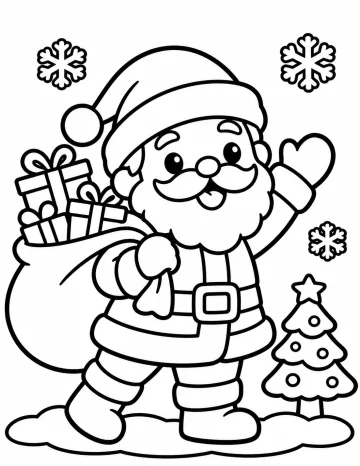
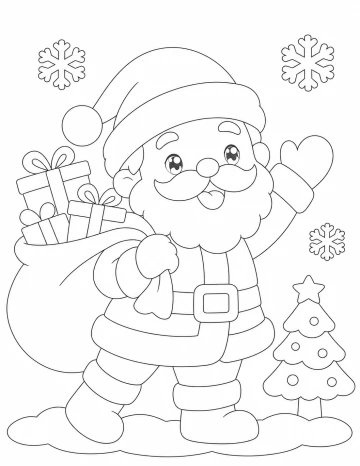
feat: add Christmas-themed coloring pages and update page selection logic

diff --git a/src/components/projects-home/PagePickerSheet.tsx b/src/components/projects-home/PagePickerSheet.tsx
@@ -1,7 +1,13 @@
 import { useMemo, useRef, useState, type ReactNode } from "react";
 import { Camera, Loader2, PenLine, X } from "lucide-react";
 import { toast } from "sonner";
-import { COLORING_PAGES, coloringPageThumbToSrc, type ColoringPage } from "@/lib/coloringPages";
+import {
+  COLORING_PAGES,
+  COLORING_THEMES,
+  coloringPageTheme,
+  coloringPageThumbToSrc,
+  type ColoringPage,
+} from "@/lib/coloringPages";
 import { openImagePicker } from "@/lib/nativeBridge";
 import type { CanvasImage } from "@/lib/projects";
 import { buildPhotoColoringPage } from "@/components/paint/paintUtils";
@@ -13,14 +19,6 @@ import {
   DialogDescription,
   DialogTitle,
 } from "@/components/ui/dialog";
-
-const CATEGORY_ORDER: ColoringPage["category"][] = ["Imported", "Cute", "Fantasy", "Play"];
-const CATEGORY_LABELS: Record<ColoringPage["category"], string> = {
-  Imported: "Picture pages",
-  Cute: "Cute friends",
-  Fantasy: "Fantasy",
-  Play: "Play time",
-};
 
 export type PagePick =
   | { kind: "page"; page: ColoringPage }
@@ -40,18 +38,14 @@ export function PagePickerSheet({
   onOpenChange: (open: boolean) => void;
   onPick: (pick: PagePick) => void;
 }) {
-  const sections = useMemo(() => {
-    const groups = new Map<ColoringPage["category"], ColoringPage[]>();
-    for (const page of COLORING_PAGES) {
-      const list = groups.get(page.category) ?? [];
-      list.push(page);
-      groups.set(page.category, list);
-    }
-    return [...groups.entries()].sort(
-      ([a], [b]) => CATEGORY_ORDER.indexOf(a) - CATEGORY_ORDER.indexOf(b),
-    );
-  }, []);
-  const showSectionTitles = sections.length > 1;
+  const sections = useMemo(
+    () =>
+      COLORING_THEMES.map((theme) => ({
+        ...theme,
+        pages: COLORING_PAGES.filter((page) => coloringPageTheme(page) === theme.id),
+      })).filter((section) => section.pages.length > 0),
+    [],
+  );
   const fileRef = useRef<HTMLInputElement>(null);
   const [converting, setConverting] = useState(false);
 
@@ -129,16 +123,26 @@ export function PagePickerSheet({
               if (file) void handlePhoto(file);
             }}
           />
-          <div className="grid grid-cols-2 gap-3 sm:grid-cols-3 sm:gap-4 lg:grid-cols-4">
-            {sections.map(([category, pages]) => (
-              <SectionPages
-                key={category}
-                title={showSectionTitles ? CATEGORY_LABELS[category] : null}
-                pages={pages}
-                onPick={(page) => onPick({ kind: "page", page })}
-              />
+          <div className="mt-5 space-y-6">
+            {sections.map(({ id, title, emoji, pages }) => (
+              <section key={id} aria-labelledby={`page-theme-${id}`}>
+                <h3
+                  id={`page-theme-${id}`}
+                  className="mb-3 flex items-center gap-2 px-1 font-display text-base font-semibold text-slate-700"
+                >
+                  <span aria-hidden="true" className="text-xl">
+                    {emoji}
+                  </span>
+                  {title}
+                </h3>
+                <div className="grid grid-cols-2 gap-3 sm:grid-cols-3 sm:gap-4 lg:grid-cols-4">
+                  <SectionPages pages={pages} onPick={(page) => onPick({ kind: "page", page })} />
+                </div>
+              </section>
             ))}
-            <PremiumSection onPick={(page) => onPick({ kind: "page", page })} />
+            <div className="grid grid-cols-2 gap-3 sm:grid-cols-3 sm:gap-4 lg:grid-cols-4">
+              <PremiumSection onPick={(page) => onPick({ kind: "page", page })} />
+            </div>
           </div>
         </div>
 
@@ -156,21 +160,14 @@ export function PagePickerSheet({
 }
 
 function SectionPages({
-  title,
   pages,
   onPick,
 }: {
-  title: string | null;
   pages: ColoringPage[];
   onPick: (page: ColoringPage) => void;
 }) {
   return (
     <>
-      {title && (
-        <h3 className="col-span-full mt-3 px-1 text-[11px] font-bold uppercase tracking-[0.18em] text-slate-400">
-          {title}
-        </h3>
-      )}
       {pages.map((page) => (
         <button
           key={page.id}
@@ -189,7 +186,7 @@ function SectionPages({
               className="h-full w-full object-contain transition-transform duration-200 group-hover:scale-[1.04]"
             />
           </span>
-          <span className="mt-2 block truncate px-1 font-display text-sm font-semibold text-slate-700">
+          <span className="mt-2 block min-h-10 px-1 font-display text-sm font-semibold text-slate-700">
             {page.name}
           </span>
         </button>

diff --git a/src/lib/coloringPages.ts b/src/lib/coloringPages.ts
@@ -175,9 +175,7 @@ const christmasPageRank = (id: string) => {
 
 export const COLORING_PAGES: ColoringPage[] =
   importedColoringPages.length > 0
-    ? [...importedColoringPages].sort(
-        (a, b) => christmasPageRank(a.id) - christmasPageRank(b.id),
-      )
+    ? [...importedColoringPages].sort((a, b) => christmasPageRank(a.id) - christmasPageRank(b.id))
     : FALLBACK_COLORING_PAGES;
 
 export function coloringPageToSrc(page: ColoringPage) {
@@ -235,5 +233,71 @@ export function findColoringPage(id: string | null | undefined) {
     COLORING_PAGES.find((page) => page.id === id) ??
     PREMIUM_PAGES.find((page) => page.id === id) ??
     null
+  );
+}
+
+/** Display themes are independent of asset paths, so saved page IDs stay stable. */
+export const COLORING_THEMES = [
+  { id: "christmas", title: "Christmas", emoji: "🎄" },
+  { id: "princesses", title: "Princesses & Fairies", emoji: "👑" },
+  { id: "ocean", title: "Under the Sea", emoji: "🧜♀" },
+  { id: "animals", title: "Animal Friends", emoji: "🐾" },
+  { id: "heroes", title: "Little Heroes", emoji: "⚔" },
+  { id: "dinosaurs", title: "Dinosaur Adventures", emoji: "🦕" },
+  { id: "space", title: "Space Adventures", emoji: "🚀" },
+  { id: "magic", title: "Magical Worlds", emoji: "🦄" },
+  { id: "play", title: "Play & Celebrate", emoji: "🎈" },
+  { id: "nature", title: "Nature & Rainbows", emoji: "🌈" },
+  { id: "more", title: "More to Color", emoji: "🎨" },
+] as const;
+export type ColoringTheme = (typeof COLORING_THEMES)[number]["id"];
+
+const PAGE_THEME: Record<string, ColoringTheme> = {
+  picture1: "princesses",
+  picture2: "princesses",
+  picture3: "ocean",
+  picture4: "animals",
+  picture5: "princesses",
+  picture6: "magic",
+  picture7: "animals",
+  picture8: "ocean",
+  picture9: "heroes",
+  picture10: "heroes",
+  picture11: "play",
+  picture12: "dinosaurs",
+  "frost-crown-princess": "princesses",
+  "garden-tower-princess": "princesses",
+  "baby-dragon": "magic",
+  "fairy-mushroom-house": "magic",
+  "unicorn-cloud": "magic",
+  "rainbow-and-sun": "nature",
+  "puppy-with-ball": "animals",
+  "happy-dinosaur": "dinosaurs",
+  "ocean-friends": "ocean",
+  "space-rocket": "space",
+  "sleepy-owl": "animals",
+  "friendly-farm-cow": "animals",
+  "beach-sandcastle": "play",
+  "dino-rainbow": "dinosaurs",
+  "birthday-party": "play",
+  "garden-friend": "nature",
+  "cake-princess": "princesses",
+  "kimono-day": "princesses",
+  "space-kitty": "space",
+  "balloon-ride": "play",
+};
+
+export function coloringPageTheme(page: ColoringPage): ColoringTheme {
+  const file = page.id.split("/").at(-1) ?? page.id;
+  if (file.startsWith("christmas-")) return "christmas";
+  return (
+    PAGE_THEME[file] ??
+    (page.category === "Cute"
+      ? "animals"
+      : page.category === "Fantasy"
+        ? "magic"
+        : page.category === "Play"
+          ? "play"
+          : "more")
   );
 }

diff --git a/src/components/contest/PremiumPages.tsx b/src/components/contest/PremiumPages.tsx
@@ -49,7 +49,7 @@ export function PremiumSection({ onPick }: { onPick: (page: ColoringPage) => voi
     <>
       <div className="col-span-full mt-3 flex items-center justify-between px-1">
         <h3 className="text-[11px] font-bold uppercase tracking-[0.18em] text-amber-600">
-          Special pages
+          <span aria-hidden="true">✨</span> Special pages
         </h3>
         <span className="inline-flex items-center gap-1 rounded-full bg-amber-50 px-2.5 py-1 text-xs font-bold text-amber-700 ring-1 ring-amber-100">
           <Star className="size-3.5 fill-amber-400 text-amber-500" />
